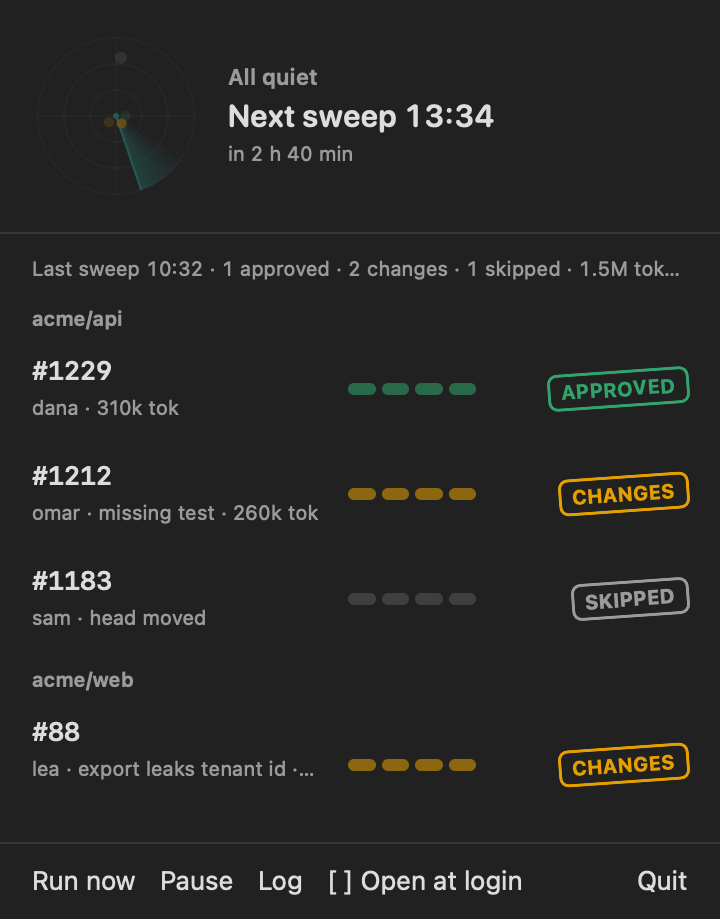
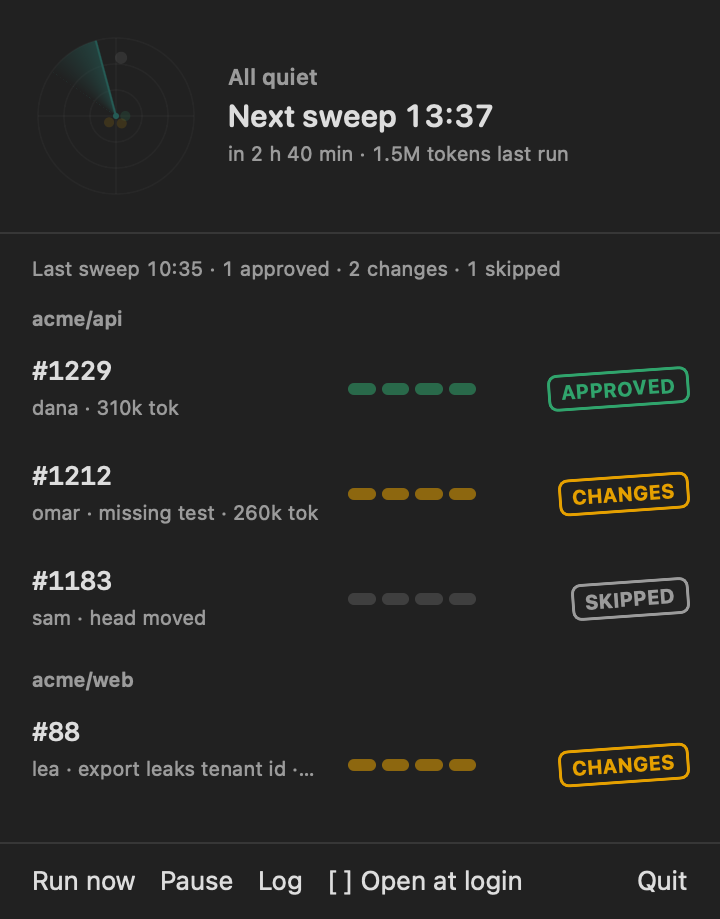
fix(app): show run-level errors, keep run tokens in the header
A run that fails before any repo (for example gh not signed in) now shows
its error in the footer. The last-sweep line no longer truncates the token
total; idle header shows tokens for the last run instead.

diff --git a/Sources/ReviewRadar/App/Popover.swift b/Sources/ReviewRadar/App/Popover.swift
@@ -45,7 +45,7 @@ struct PopoverView: View {
                     .font(.caption)
                     .foregroundStyle(.secondary)
                     .monospacedDigit()
-                    .lineLimit(1)
+                    .lineLimit(2)
                     .padding(.horizontal, 16)
                     .padding(.top, 10)
             }
@@ -131,10 +131,13 @@ struct PopoverView: View {
             let h = mins / 60, m = mins % 60
             small = h > 0 ? "in \(h) h \(m) min" : "in \(m) min"
         }
+        if let tokens = snap.run?.tokens, tokens > 0 {
+            small = [small, "\(compactTokens(tokens)) tokens last run"].compactMap { $0 }.joined(separator: " · ")
+        }
         return HeaderCopy(title: "All quiet", big: big, small: small)
     }
 
-    /// "Last sweep 10:04 · 1 approved · 4 changes · 3 skipped · 84k tokens", zero counts omitted.
+    /// "Last sweep 10:04 · 1 approved · 4 changes · 3 skipped", zero counts omitted.
     private var lastSweepLine: String? {
         guard store.snap.jobInstalled, !store.snap.running, let run = store.snap.run else { return nil }
         var parts = ["Last sweep \(Self.clock.string(from: run.started))"]
@@ -145,7 +148,6 @@ struct PopoverView: View {
         if approved > 0 { parts.append("\(approved) approved") }
         if changes > 0 { parts.append("\(changes) changes") }
         if skipped > 0 { parts.append("\(skipped) skipped") }
-        if run.tokens > 0 { parts.append("\(compactTokens(run.tokens)) tokens") }
         return parts.joined(separator: " · ")
     }
 

diff --git a/Sources/ReviewRadar/App/Store.swift b/Sources/ReviewRadar/App/Store.swift
@@ -94,6 +94,7 @@ final class Store: ObservableObject {
             s.lastError = "could not read the last run: \(error)"
         }
         // A run is live only while its lock is held, so a crashed run never shows as running.
+        s.lastError = s.lastError ?? s.run?.error
         s.running = (s.run.map { $0.finished == nil } ?? false) && RunLock.isHeld(paths.lockFile)
         s.paused = Pause.isPaused(paths)
         s.jobInstalled = FileManager.default.fileExists(atPath: paths.plistFile)
